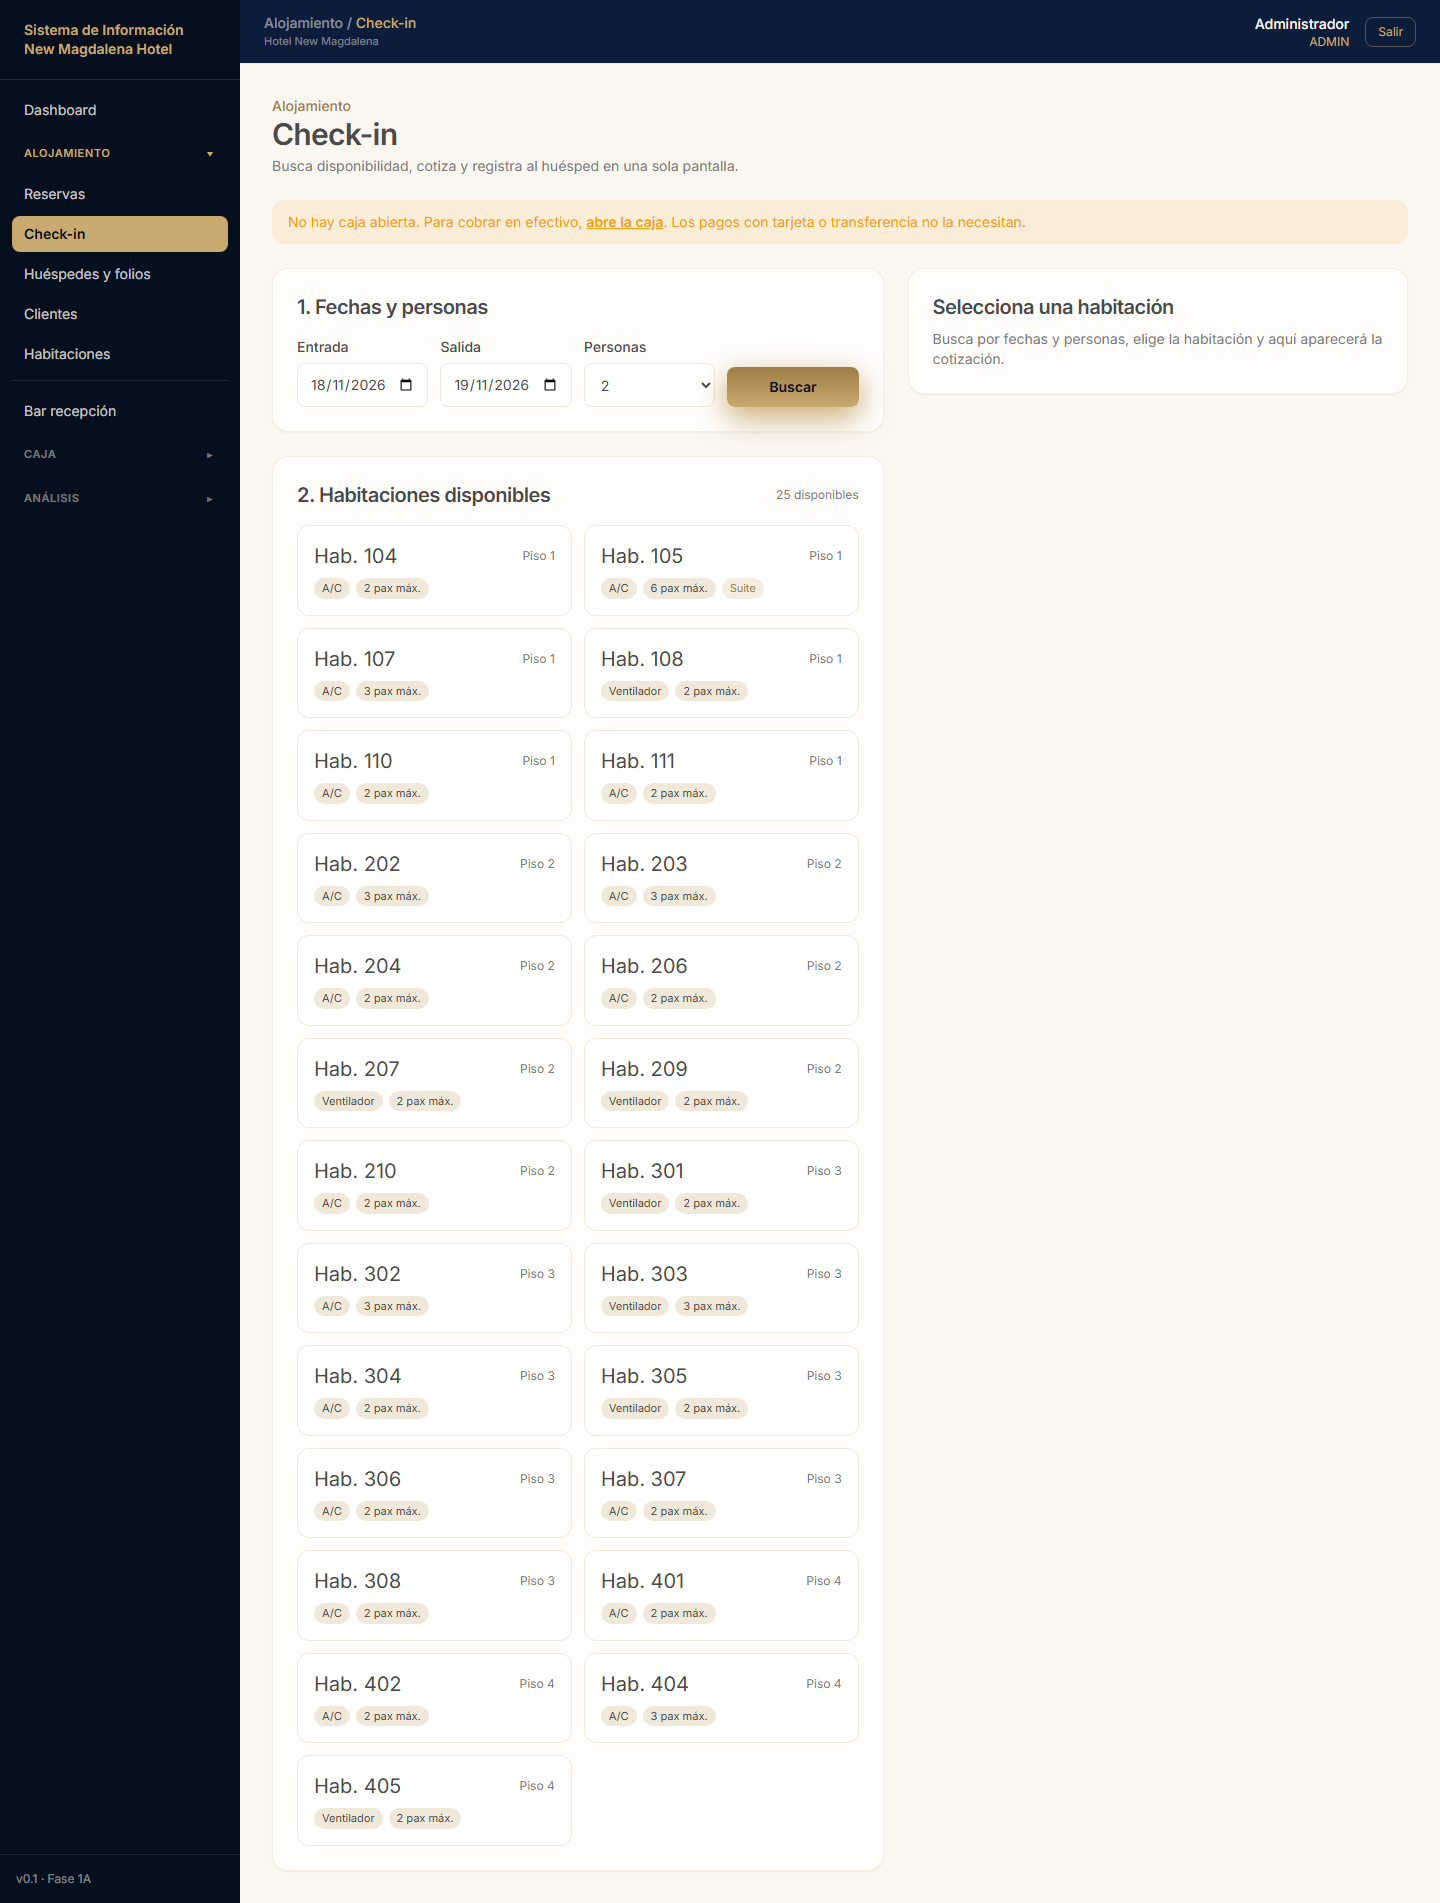
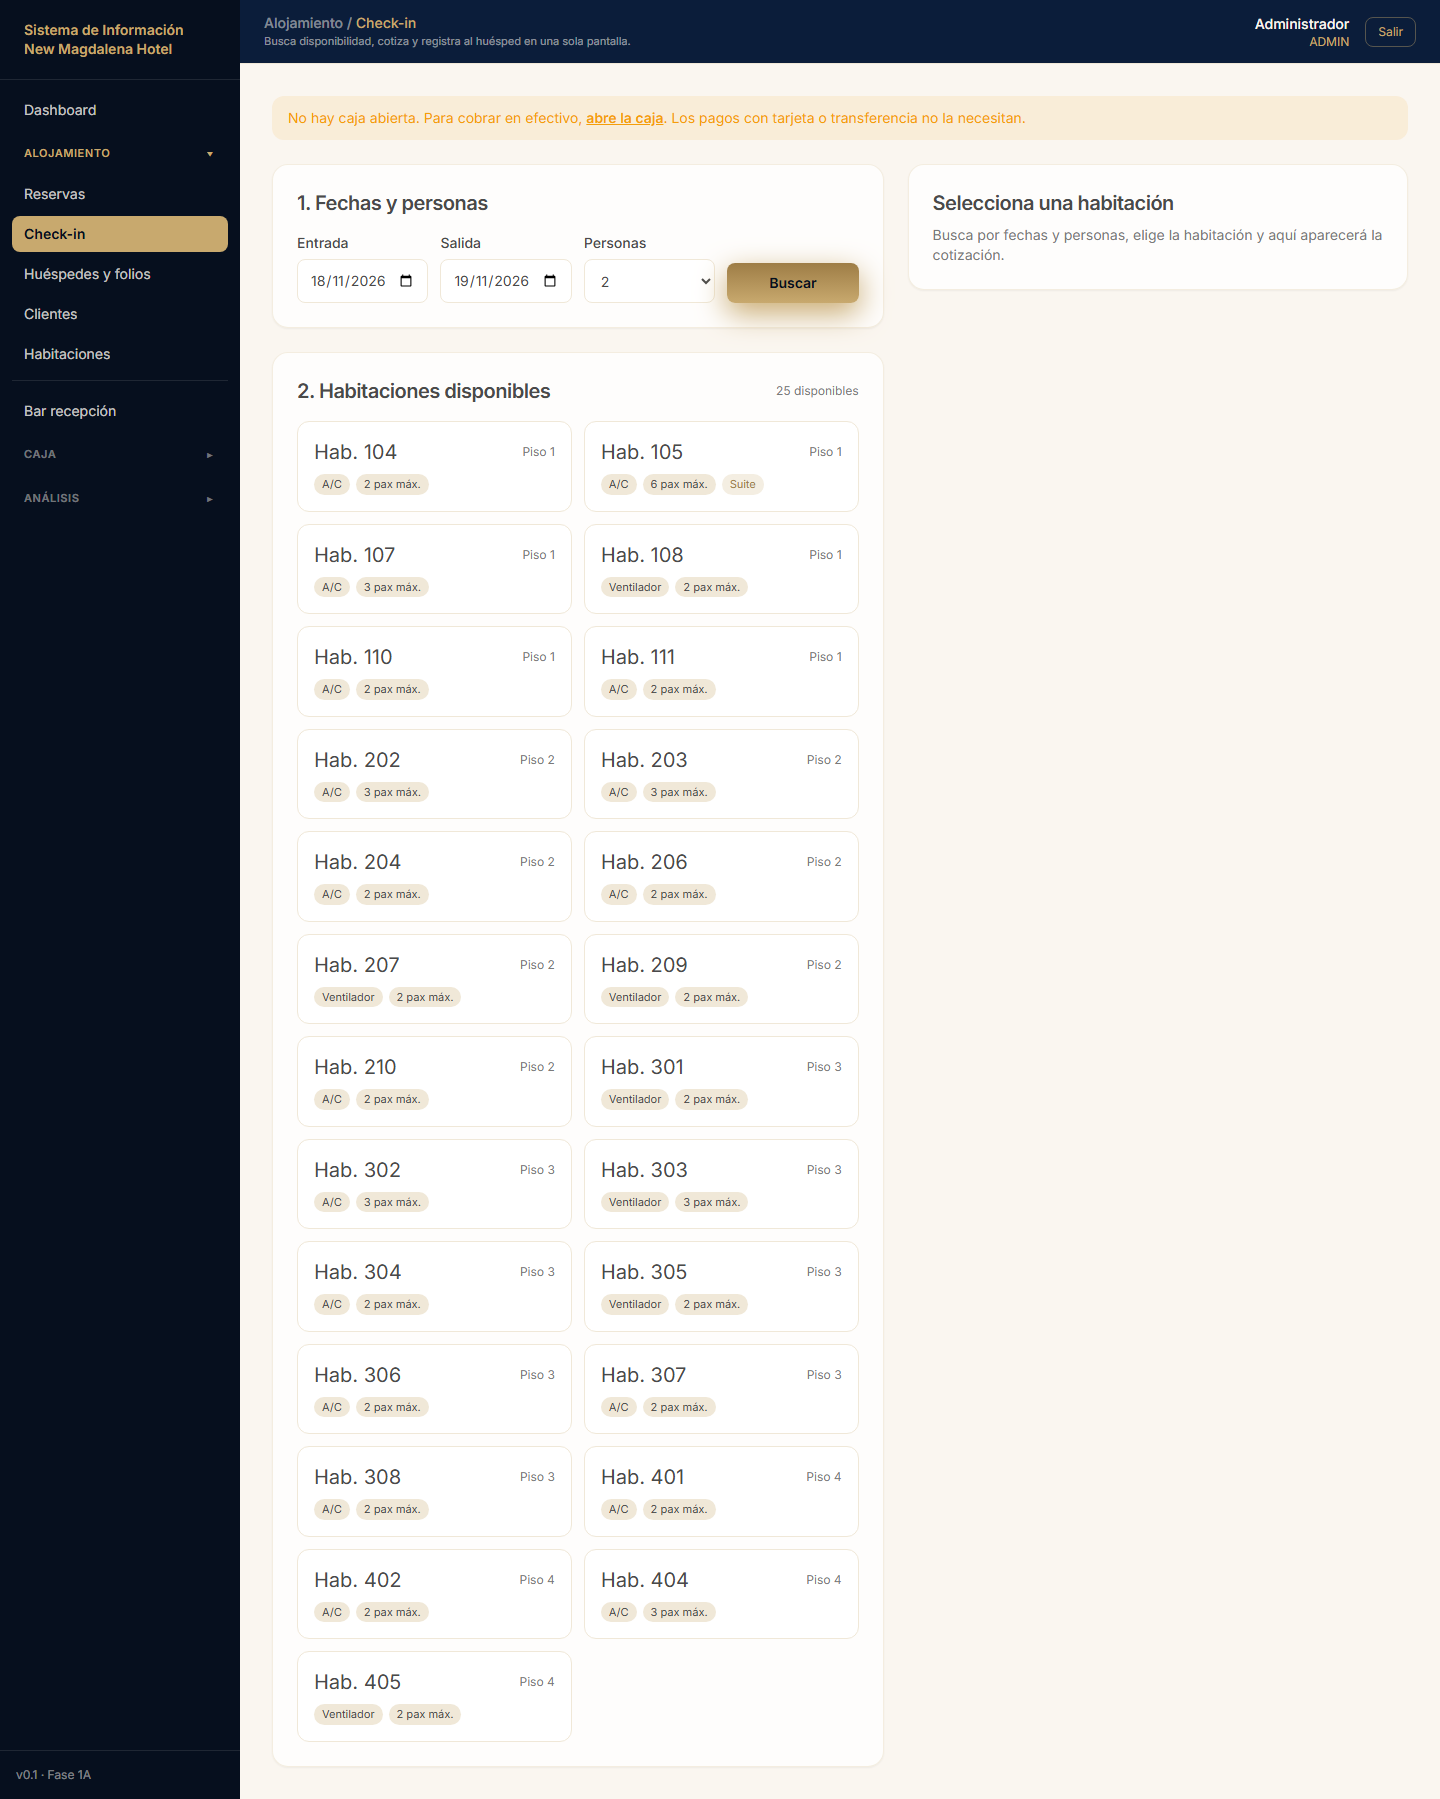
feat(ui): encabezado unico con descripcion por pantalla

diff --git a/frontend/src/components/AppLayout.tsx b/frontend/src/components/AppLayout.tsx
@@ -49,19 +49,84 @@ const navegacion: SeccionNavegacion[] = [
   },
 ];
 
-const breadcrumbs: Array<{ prefijo: string; modulo: string; pantalla: string }> = [
-  { prefijo: '/dashboard', modulo: 'Principal', pantalla: 'Dashboard' },
-  { prefijo: '/reservas', modulo: 'Alojamiento', pantalla: 'Reservas' },
-  { prefijo: '/checkin', modulo: 'Alojamiento', pantalla: 'Check-in' },
-  { prefijo: '/folios', modulo: 'Alojamiento', pantalla: 'Huéspedes y folios' },
-  { prefijo: '/clientes', modulo: 'Alojamiento', pantalla: 'Clientes' },
-  { prefijo: '/habitaciones', modulo: 'Alojamiento', pantalla: 'Habitaciones' },
-  { prefijo: '/bar', modulo: 'Bar y servicios', pantalla: 'Bar recepción' },
-  { prefijo: '/caja', modulo: 'Caja', pantalla: 'Caja y turnos' },
-  { prefijo: '/cartera', modulo: 'Caja', pantalla: 'Cartera' },
-  { prefijo: '/cuenta-socio', modulo: 'Caja', pantalla: 'Cuenta socio' },
-  { prefijo: '/reportes', modulo: 'Análisis', pantalla: 'Reportes' },
-  { prefijo: '/configuracion', modulo: 'Análisis', pantalla: 'Configuración' },
+const breadcrumbs: Array<{
+  prefijo: string;
+  modulo: string;
+  pantalla: string;
+  descripcion: string;
+}> = [
+  {
+    prefijo: '/dashboard',
+    modulo: 'Principal',
+    pantalla: 'Dashboard',
+    descripcion: 'Resumen de la operación de hoy.',
+  },
+  {
+    prefijo: '/reservas',
+    modulo: 'Alojamiento',
+    pantalla: 'Reservas',
+    descripcion: 'Crea la reserva, confirma la habitación y conviértela en check-in.',
+  },
+  {
+    prefijo: '/checkin',
+    modulo: 'Alojamiento',
+    pantalla: 'Check-in',
+    descripcion: 'Busca disponibilidad, cotiza y registra al huésped en una sola pantalla.',
+  },
+  {
+    prefijo: '/folios',
+    modulo: 'Alojamiento',
+    pantalla: 'Huéspedes y folios',
+    descripcion: 'Folios abiertos, cargos pendientes y check-out.',
+  },
+  {
+    prefijo: '/clientes',
+    modulo: 'Alojamiento',
+    pantalla: 'Clientes',
+    descripcion: 'Empresas, empleados y grupos con cupo y plazo de crédito.',
+  },
+  {
+    prefijo: '/habitaciones',
+    modulo: 'Alojamiento',
+    pantalla: 'Habitaciones',
+    descripcion: 'Estado de las 31 habitaciones rentables.',
+  },
+  {
+    prefijo: '/bar',
+    modulo: 'Bar y servicios',
+    pantalla: 'Bar recepción',
+    descripcion: 'Venta de productos, cobro directo o cargo a la habitación.',
+  },
+  {
+    prefijo: '/caja',
+    modulo: 'Caja',
+    pantalla: 'Caja y turnos',
+    descripcion: 'Apertura, movimientos y cierre del turno de recepción.',
+  },
+  {
+    prefijo: '/cartera',
+    modulo: 'Caja',
+    pantalla: 'Cartera',
+    descripcion: 'Empresas y empleados con saldo pendiente y abonos.',
+  },
+  {
+    prefijo: '/cuenta-socio',
+    modulo: 'Caja',
+    pantalla: 'Cuenta socio',
+    descripcion: 'Aportes y retiros del dueño.',
+  },
+  {
+    prefijo: '/reportes',
+    modulo: 'Análisis',
+    pantalla: 'Reportes',
+    descripcion: 'Ingresos del día, ocupación y movimientos contables.',
+  },
+  {
+    prefijo: '/configuracion',
+    modulo: 'Análisis',
+    pantalla: 'Usuarios y roles',
+    descripcion: 'Crea las cuentas de recepción, caja y gerencia.',
+  },
 ];
 
 function obtenerBreadcrumb(pathname: string) {
@@ -69,7 +134,13 @@ function obtenerBreadcrumb(pathname: string) {
     (item) => pathname === item.prefijo || pathname.startsWith(`${item.prefijo}/`)
   );
 
-  return encontrado ?? { modulo: 'SINMH', pantalla: 'Recepción' };
+  return (
+    encontrado ?? {
+      modulo: 'Sistema de Información',
+      pantalla: 'Recepción',
+      descripcion: 'Sistema de Información New Magdalena Hotel.',
+    }
+  );
 }
 
 export function AppLayout() {
@@ -273,8 +344,9 @@ export function AppLayout() {
       )}
 
       <div className="flex min-w-0 flex-1 flex-col">
-        <header className="flex h-16 items-center justify-between border-b border-cream-dark bg-navy px-4 text-cream lg:px-6">
-          <div className="flex items-center gap-3">
+        <header className="flex min-h-16 items-center justify-between border-b border-cream-dark bg-navy px-4 py-2 text-cream lg:px-6">
+          <h1 className="sr-only">{breadcrumb.pantalla}</h1>
+          <div className="flex min-w-0 items-center gap-3">
             <button
               type="button"
               onClick={() => setMenuMovil(true)}
@@ -285,11 +357,13 @@ export function AppLayout() {
               ☰
             </button>
             <div className="min-w-0">
-              <p className="truncate text-sm font-medium text-cream">
+              <p className="truncate text-sm font-medium">
                 <span className="hidden text-cream/50 sm:inline">{breadcrumb.modulo} / </span>
                 <span className="text-gold">{breadcrumb.pantalla}</span>
               </p>
-              <p className="text-[11px] text-cream/45">Hotel New Magdalena</p>
+              <p className="hidden max-w-2xl truncate text-[11px] text-cream/55 sm:block">
+                {breadcrumb.descripcion}
+              </p>
             </div>
           </div>
 

diff --git a/frontend/src/pages/DashboardPage.tsx b/frontend/src/pages/DashboardPage.tsx
@@ -32,7 +32,7 @@ function formatoMoneda(valor: number) {
 }
 
 export function DashboardPage() {
-  const { token, usuario } = useAuth();
+  const { token } = useAuth();
   const [ocupacion, setOcupacion] = useState({ ocupadas: 0, total: 0, porcentaje: 0 });
   const [ingresos, setIngresos] = useState(0);
   const [sesion, setSesion] = useState<SesionCaja | null>(null);
@@ -125,16 +125,6 @@ export function DashboardPage() {
 
   return (
     <div className="space-y-6">
-      <div>
-        <p className="text-sm font-medium text-gold-dark">Principal</p>
-        <h1 className="font-display text-3xl text-stone">
-          Buen día, {usuario?.nombre?.split(' ')[0] ?? 'equipo'}
-        </h1>
-        <p className="mt-1 text-sm text-stone-light">
-          Resumen de la operación de hoy, {hoy}.
-        </p>
-      </div>
-
       {error && <div className="rounded-xl bg-error/10 px-4 py-3 text-sm text-error">{error}</div>}
 
       <div className="grid gap-4 sm:grid-cols-2 xl:grid-cols-4">

diff --git a/frontend/src/pages/CarteraPage.tsx b/frontend/src/pages/CarteraPage.tsx
@@ -102,14 +102,7 @@ export function CarteraPage() {
 
   return (
     <div className="space-y-6">
-      <div className="flex flex-wrap items-end justify-between gap-3">
-        <div>
-          <p className="text-sm font-medium text-gold-dark">Cartera</p>
-          <h1 className="font-display text-3xl text-stone">Cuentas por cobrar</h1>
-          <p className="mt-1 text-sm text-stone-light">
-            Empresas y empleados con saldo pendiente y abonos.
-          </p>
-        </div>
+      <div className="flex justify-end">
         <div className="rounded-xl bg-navy px-4 py-2 text-right text-cream">
           <p className="text-xs text-cream/60">Cartera total</p>
           <p className="font-display text-xl text-gold">{formatoMoneda(total)}</p>

diff --git a/frontend/src/pages/ReportesPage.tsx b/frontend/src/pages/ReportesPage.tsx
@@ -105,14 +105,7 @@ export function ReportesPage() {
 
   return (
     <div className="space-y-6">
-      <div className="flex flex-wrap items-end justify-between gap-3">
-        <div>
-          <p className="text-sm font-medium text-gold-dark">Análisis</p>
-          <h1 className="font-display text-3xl text-stone">Reportes</h1>
-          <p className="mt-1 text-sm text-stone-light">
-            Ingresos del día, ocupación y movimientos contables.
-          </p>
-        </div>
+      <div className="flex justify-end">
         <div className="flex flex-wrap items-end gap-2">
           <div>
             <label className="label" htmlFor="fecha">Fecha</label>

diff --git a/frontend/src/pages/ReservasPage.tsx b/frontend/src/pages/ReservasPage.tsx
@@ -374,14 +374,7 @@ export function ReservasPage() {
 
   return (
     <div className="space-y-6">
-      <div className="flex flex-wrap items-end justify-between gap-3">
-        <div>
-          <p className="text-sm font-medium text-gold-dark">Alojamiento</p>
-          <h1 className="font-display text-3xl text-stone">Reservas</h1>
-          <p className="mt-1 text-sm text-stone-light">
-            Crea la reserva, confirma la habitación y conviértela en check-in.
-          </p>
-        </div>
+      <div className="flex justify-end">
         <Link to="/checkin" className="btn-secondary">Check-in directo</Link>
       </div>
 

diff --git a/frontend/src/pages/CuentaSocioPage.tsx b/frontend/src/pages/CuentaSocioPage.tsx
@@ -51,14 +51,7 @@ export function CuentaSocioPage() {
 
   return (
     <div className="space-y-6">
-      <div className="flex flex-wrap items-end justify-between gap-3">
-        <div>
-          <p className="text-sm font-medium text-gold-dark">Caja</p>
-          <h1 className="font-display text-3xl text-stone">Cuenta socio</h1>
-          <p className="mt-1 text-sm text-stone-light">
-            Aportes y retiros del dueño. Saldo positivo: dinero del socio en el hotel.
-          </p>
-        </div>
+      <div className="flex justify-end">
         <Link to="/caja" className="btn-secondary">Ir a caja</Link>
       </div>
 

diff --git a/frontend/src/pages/BarPage.tsx b/frontend/src/pages/BarPage.tsx
@@ -169,14 +169,7 @@ export function BarPage() {
 
   return (
     <div className="space-y-6">
-      <div className="flex flex-wrap items-end justify-between gap-3">
-        <div>
-          <p className="text-sm font-medium text-gold-dark">Bar y servicios</p>
-          <h1 className="font-display text-3xl text-stone">Bar recepción</h1>
-          <p className="mt-1 text-sm text-stone-light">
-            Venta de productos, cobro directo o cargo a la habitación.
-          </p>
-        </div>
+      <div className="flex justify-end">
         <Link to="/folios" className="btn-primary">Ver huéspedes</Link>
       </div>
 

diff --git a/frontend/src/pages/FoliosPage.tsx b/frontend/src/pages/FoliosPage.tsx
@@ -188,14 +188,7 @@ export function FoliosPage() {
 
   return (
     <div className="space-y-6">
-      <div className="flex flex-wrap items-end justify-between gap-3">
-        <div>
-          <p className="text-sm font-medium text-gold-dark">Alojamiento</p>
-          <h1 className="font-display text-3xl text-stone">Huéspedes en casa</h1>
-          <p className="mt-1 text-sm text-stone-light">
-            Folios abiertos, cargos pendientes y check-out.
-          </p>
-        </div>
+      <div className="flex justify-end">
         <Link to="/checkin" className="btn-primary">
           Nuevo check-in
         </Link>

diff --git a/frontend/src/pages/HabitacionesPage.tsx b/frontend/src/pages/HabitacionesPage.tsx
@@ -97,14 +97,7 @@ export function HabitacionesPage() {
 
   return (
     <div className="space-y-6">
-      <div className="flex flex-wrap items-end justify-between gap-3">
-        <div>
-          <p className="text-sm font-medium text-gold-dark">Alojamiento</p>
-          <h1 className="font-display text-3xl text-stone">Tablero de habitaciones</h1>
-          <p className="mt-1 text-sm text-stone-light">
-            Estado de las 31 habitaciones rentables.
-          </p>
-        </div>
+      <div className="flex justify-end">
         <Link to="/checkin" className="btn-primary">Nuevo check-in</Link>
       </div>
 

diff --git a/frontend/src/pages/ConfiguracionPage.tsx b/frontend/src/pages/ConfiguracionPage.tsx
@@ -125,14 +125,6 @@ export function ConfiguracionPage() {
 
   return (
     <div className="space-y-6">
-      <div>
-        <p className="text-sm font-medium text-gold-dark">Análisis</p>
-        <h1 className="font-display text-3xl text-stone">Usuarios y roles</h1>
-        <p className="mt-1 text-sm text-stone-light">
-          Crea las cuentas de recepción, caja y gerencia.
-        </p>
-      </div>
-
       {error && <div className="rounded-xl bg-error/10 px-4 py-3 text-sm text-error">{error}</div>}
       {exito && <div className="rounded-xl bg-success/10 px-4 py-3 text-sm text-success">{exito}</div>}
 

diff --git a/frontend/src/pages/ClientesPage.tsx b/frontend/src/pages/ClientesPage.tsx
@@ -113,14 +113,6 @@ export function ClientesPage() {
 
   return (
     <div className="space-y-6">
-      <div>
-        <p className="text-sm font-medium text-gold-dark">Alojamiento</p>
-        <h1 className="font-display text-3xl text-stone">Clientes</h1>
-        <p className="mt-1 text-sm text-stone-light">
-          Empresas, empleados y grupos con cupo y plazo de crédito.
-        </p>
-      </div>
-
       {error && <div className="rounded-xl bg-error/10 px-4 py-3 text-sm text-error">{error}</div>}
       {exito && <div className="rounded-xl bg-success/10 px-4 py-3 text-sm text-success">{exito}</div>}
 

diff --git a/frontend/src/pages/CajaPage.tsx b/frontend/src/pages/CajaPage.tsx
@@ -257,14 +257,7 @@ export function CajaPage() {
 
   return (
     <div className="space-y-6">
-      <div className="flex flex-wrap items-end justify-between gap-3">
-        <div>
-          <p className="text-sm font-medium text-gold-dark">Caja</p>
-          <h1 className="font-display text-3xl text-stone">Caja</h1>
-          <p className="mt-1 text-sm text-stone-light">
-            Apertura, movimientos y cierre del turno de recepción.
-          </p>
-        </div>
+      <div className="flex justify-end">
         <Link to="/checkin" className="btn-primary">
           Ir a check-in
         </Link>
